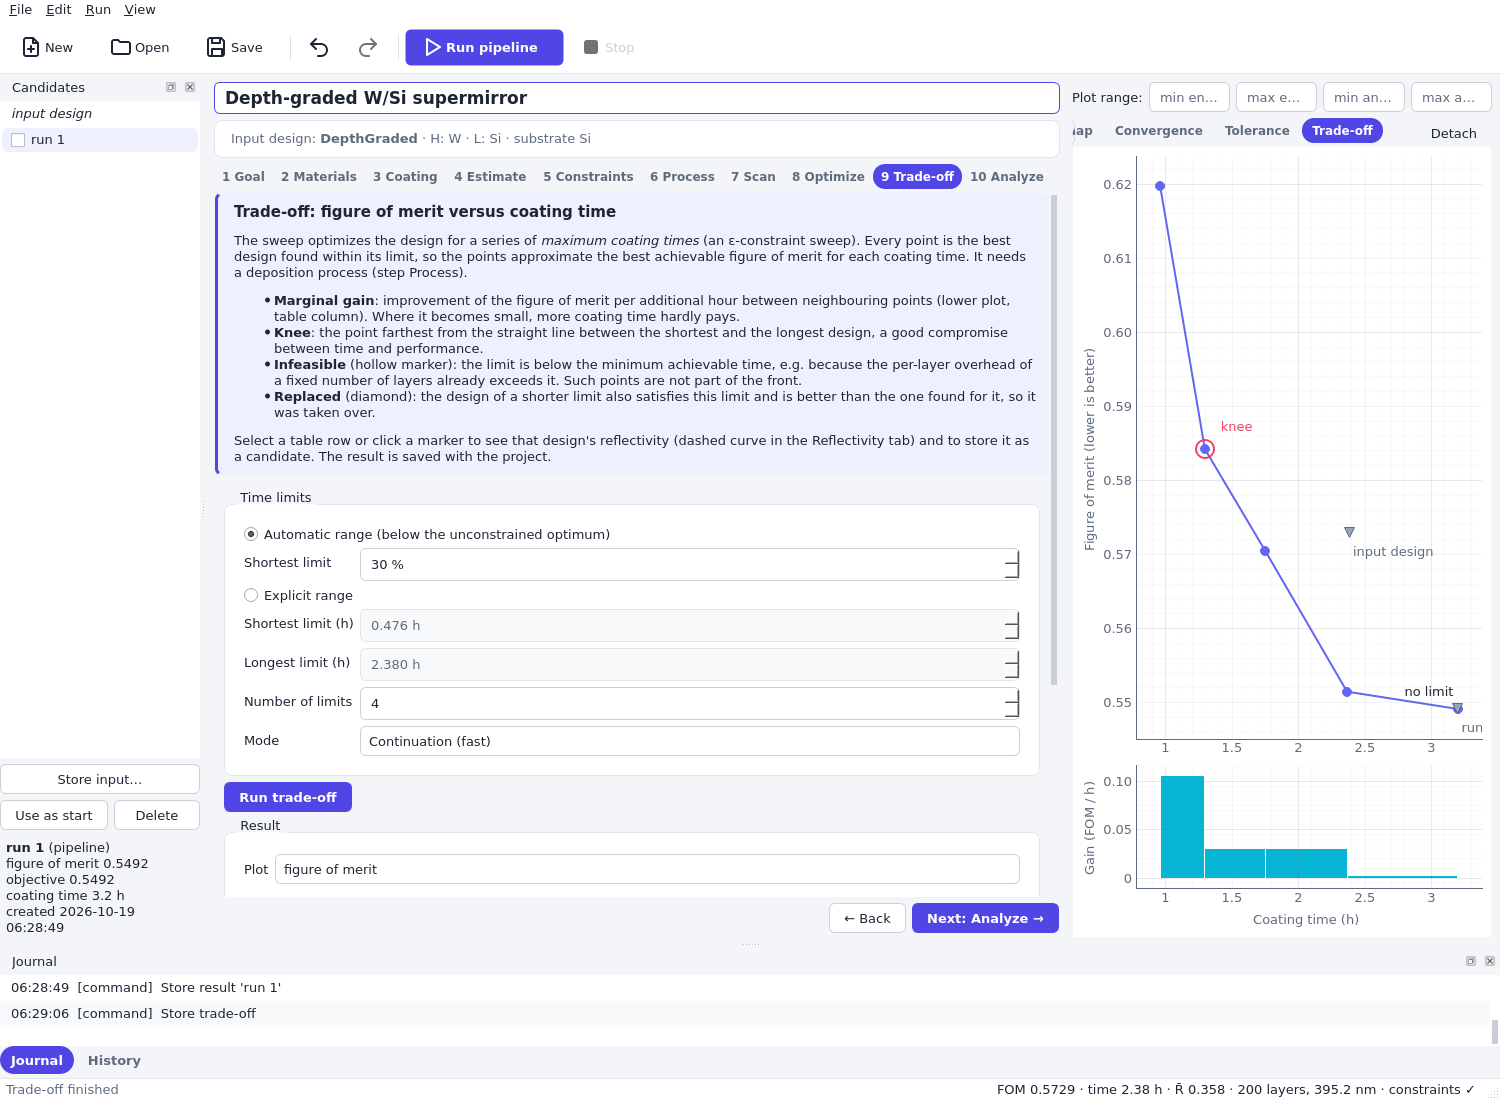
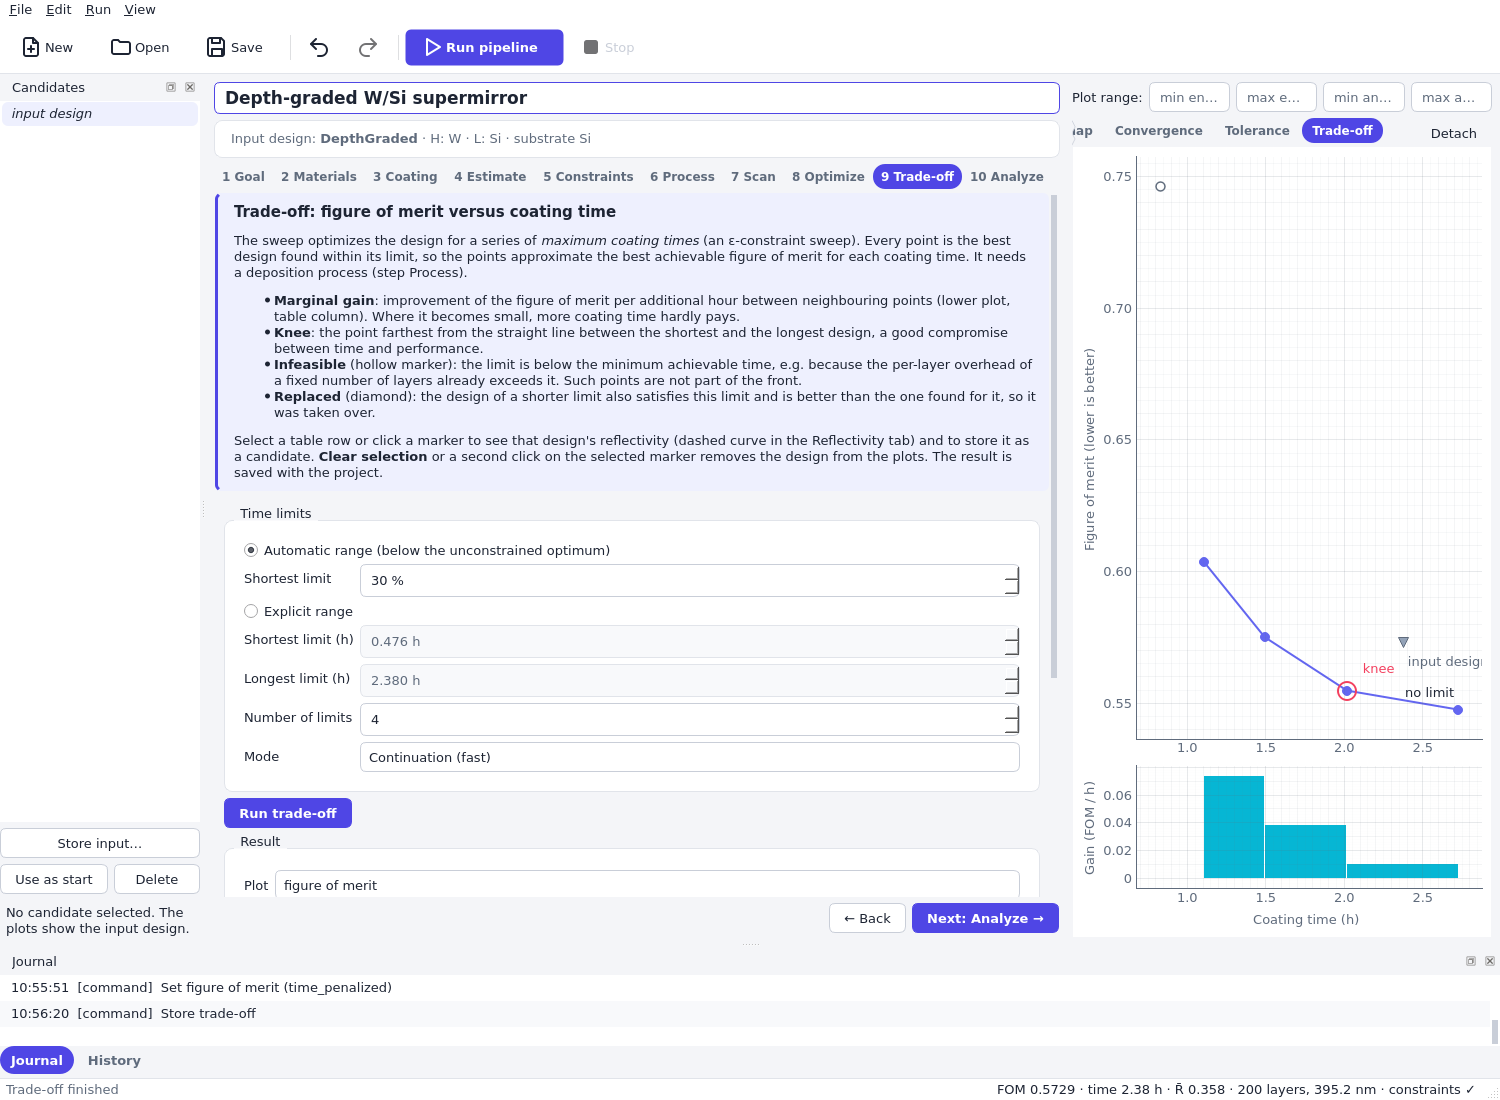
Make every trade-off point selectable and the selection clearable (#46)
The knee ring, the selection mark and the reference markers were scatter
items drawn over the points; they accepted the clicks, so the points
below could not be selected. They now ignore clicks. A click where a
replaced point lies on its original selects the point of the shorter
limit. A second click on the selected marker or the new Clear selection
button removes the design from the plots.

diff --git a/tests/gui/design/test_tradeoff_page.py b/tests/gui/design/test_tradeoff_page.py
@@ -1,15 +1,17 @@
 """Tests of the Trade-off workflow page, its plot and the integration in the main window."""
 
 import math
+from dataclasses import replace
 
 import pytest
+from PySide6.QtCore import QPointF, Qt
 from pytestqt.qtbot import QtBot
 
 from tests.gui.design.test_optimization_gui import small_state, wait_job
 from xstack.core.parameters import Parameter, ParameterSet
 from xstack.design.manufacturing.process import DepositionProcess
 from xstack.design.optim.tradeoff import TradeoffPoint, TradeoffResult
-from xstack.design.project.commands import set_mirror, set_process
+from xstack.design.project.commands import set_mirror, set_process, store_tradeoff
 from xstack.design.project.templates import new_state
 from xstack.gui.design.main_window import MainWindow
 from xstack.gui.design.plots import MERIT_QUANTITY, ReferenceDesign, TradeoffPlot
@@ -250,4 +252,115 @@ def test_automatic_range_includes_unconstrained_design(qtbot: QtBot, window: Mai
     assert result is not None
     assert [math.isinf(p.limit) for p in result.points] == [False, True]
     assert page.table.item(1, 0).text() == "no limit"
+    window.controller.undo_stack.setClean()
+
+
+def knee_result() -> TradeoffResult:
+    """A trade-off whose knee is not shared with a replaced point."""
+    return TradeoffResult(
+        (
+            point(1 * HOUR, 1.0, 0.6),
+            point(2 * HOUR, 2.0, 0.3),
+            point(4 * HOUR, 4.0, 0.25),
+            point(8 * HOUR, 8.0, 0.24),
+        )
+    )
+
+
+@pytest.fixture
+def shown_plot(qtbot: QtBot) -> TradeoffPlot:
+    plot = TradeoffPlot()
+    qtbot.addWidget(plot)
+    plot.resize(800, 600)
+    plot.show()
+    qtbot.waitExposed(plot)
+    return plot
+
+
+def click_at(qtbot: QtBot, plot: TradeoffPlot, x: float, y: float) -> list[object]:
+    """Click the plot at data coordinates; return the emitted `pointSelected` values."""
+    qtbot.wait(20)
+    scene_pos = plot.main_plot.vb.mapViewToScene(QPointF(x, y))
+    emitted: list[object] = []
+    plot.pointSelected.connect(emitted.append)
+    qtbot.mouseClick(  # type: ignore[no-untyped-call]
+        plot.graphics.viewport(),
+        Qt.MouseButton.LeftButton,
+        pos=plot.graphics.mapFromScene(scene_pos),
+    )
+    plot.pointSelected.disconnect(emitted.append)
+    return emitted
+
+
+def test_click_on_knee_selects_it(qtbot: QtBot, shown_plot: TradeoffPlot) -> None:
+    shown_plot.set_result(knee_result())
+    assert shown_plot.knee_xy == (2.0, 0.3)
+    assert click_at(qtbot, shown_plot, 2.0, 0.3) == [1]
+    assert shown_plot.selected == 1
+
+
+def test_click_on_point_shared_with_replaced_selects_shortest_limit(
+    qtbot: QtBot, shown_plot: TradeoffPlot
+) -> None:
+    """The knee of `sample_result` lies under the diamond of the point taken over from it."""
+    shown_plot.set_result(sample_result())
+    assert shown_plot.knee_xy == (2.0, 0.3)
+    assert click_at(qtbot, shown_plot, 2.0, 0.3) == [2]
+
+
+def test_click_passes_selection_mark_and_references(qtbot: QtBot, shown_plot: TradeoffPlot) -> None:
+    shown_plot.set_result(
+        knee_result(), MERIT_QUANTITY, [ReferenceDesign("input design", 4 * HOUR, 0.25)]
+    )
+    assert click_at(qtbot, shown_plot, 1.0, 0.6) == [0]
+    assert click_at(qtbot, shown_plot, 4.0, 0.25) == [2]
+    assert click_at(qtbot, shown_plot, 8.0, 0.24) == [3]
+
+
+def test_second_click_clears_selection(qtbot: QtBot, shown_plot: TradeoffPlot) -> None:
+    shown_plot.set_result(knee_result())
+    assert click_at(qtbot, shown_plot, 4.0, 0.25) == [2]
+    assert click_at(qtbot, shown_plot, 4.0, 0.25) == [None]
+    assert shown_plot.selected is None
+    assert click_at(qtbot, shown_plot, 4.0, 0.25) == [2]
+
+
+def test_page_clear_button(qtbot: QtBot) -> None:
+    page = TradeoffPage()
+    qtbot.addWidget(page)
+    page.set_state(new_state("periodic").evolve(process=PROCESS, tradeoff=sample_result()))
+    assert not page.clear_button.isEnabled()
+    emitted: list[object] = []
+    page.pointSelected.connect(emitted.append)
+    page.select_point(2)
+    assert page.clear_button.isEnabled()
+    page.clear_button.click()
+    assert emitted == [2, None]
+    assert page.selected_index() is None
+    assert not page.clear_button.isEnabled()
+    assert not page.store_button.isEnabled()
+
+
+def test_window_removes_overlay_when_selection_cleared(qtbot: QtBot, window: MainWindow) -> None:
+    make_window(window)
+    window.controller.execute(set_process(PROCESS))
+    mirror = window.controller.state.mirror
+    assert mirror is not None
+    result = TradeoffResult(
+        tuple(replace(p, parameters=mirror.parameters) for p in knee_result().points)
+    )
+    window.controller.execute(store_tradeoff(result))
+    page, plot = window.tradeoff_page, window.tradeoff_plot
+    page.select_point(1)
+    qtbot.waitUntil(lambda: bool(window.tradeoff_curves), timeout=10000)
+    page.clear_button.click()
+    assert window.tradeoff_point is None
+    assert window.tradeoff_curves == ()
+    assert plot.selected is None
+    page.select_point(2)
+    qtbot.waitUntil(lambda: bool(window.tradeoff_curves), timeout=10000)
+    plot._clicked(None, [type("P", (), {"data": lambda self: 2})()])
+    assert page.selected_index() is None
+    assert window.tradeoff_point is None
+    assert window.tradeoff_curves == ()
     window.controller.undo_stack.setClean()

diff --git a/src/xstack/gui/design/plots.py b/src/xstack/gui/design/plots.py
@@ -444,6 +444,14 @@ class ReferenceDesign:
 type _Group = list[tuple[float, float, int]]
 
 
+class _Decoration(pg.ScatterPlotItem):
+    """Markers that only decorate other points; clicks pass through to the points below."""
+
+    def mouseClickEvent(self, ev: Any) -> None:
+        """Ignore the click, so that the scene offers it to the items below."""
+        ev.ignore()
+
+
 class TradeoffPlot(QWidget):
     """Quantity versus coating time of a trade-off, with the marginal gain below.
 
@@ -453,9 +461,14 @@ class TradeoffPlot(QWidget):
     as separate labelled markers. The lower panel shows the improvement of the figure of merit
     per additional hour between neighbouring feasible designs.
 
+    Clicking a marker selects its point; clicking the selected point again clears the selection.
+    The knee ring, the selection mark and the reference designs don't take clicks. A point taken
+    over from a shorter limit lies on the point it was taken from; a click there selects the
+    point of the shortest limit.
+
     Signals:
-        pointSelected(int): A marker was clicked; the index of the point in
-            `TradeoffResult.points`.
+        pointSelected(object): A marker was clicked; the index of the point in
+            `TradeoffResult.points`, or ``None`` if the click cleared the selection.
 
     Attributes:
         feasible_xy: Coating times in h and plotted values of the feasible points.
@@ -471,7 +484,7 @@ class TradeoffPlot(QWidget):
         parent: Parent widget.
     """
 
-    pointSelected = Signal(int)
+    pointSelected = Signal(object)
 
     def __init__(self, parent: QWidget | None = None) -> None:
         super().__init__(parent)
@@ -494,6 +507,7 @@ class TradeoffPlot(QWidget):
         self._quantity = MERIT_QUANTITY
         self._items: list[tuple[pg.PlotItem, Any]] = []
         self._marker: tuple[pg.PlotItem, Any] | None = None
+        self._positions: dict[int, tuple[float, float]] = {}
         self.feasible_xy: tuple[list[float], list[float]] = ([], [])
         self.infeasible_xy: tuple[list[float], list[float]] = ([], [])
         self.replaced_xy: tuple[list[float], list[float]] = ([], [])
@@ -509,6 +523,7 @@ class TradeoffPlot(QWidget):
             plot.removeItem(item)
         self._items.clear()
         self._remove_marker()
+        self._positions = {}
         self.feasible_xy = ([], [])
         self.infeasible_xy = ([], [])
         self.replaced_xy = ([], [])
@@ -569,6 +584,7 @@ class TradeoffPlot(QWidget):
                 continue
             group = infeasible if not point.feasible else replaced if point.replaced else feasible
             group.append((x, y, index))
+            self._positions[index] = (x, y)
             if np.isinf(point.limit):
                 self._annotate("no limit", x, y, text, (1.0, 1.2))
         front = sorted([*feasible, *replaced])
@@ -598,7 +614,7 @@ class TradeoffPlot(QWidget):
             return
         x, y = knee.coating_time / 3600.0, quantity_value(knee, quantity)
         self.knee_xy = (x, y)
-        ring = pg.ScatterPlotItem(
+        ring = _Decoration(
             x=[x], y=[y], symbol="o", size=18, brush=None, pen=pg.mkPen(PALETTE[1], width=2)
         )
         self._add(self.main_plot, ring)
@@ -611,9 +627,7 @@ class TradeoffPlot(QWidget):
         if not shown:
             return
         muted = COLORS["text_muted"]
-        marker = pg.ScatterPlotItem(
-            x=xs, y=ys, symbol="t", size=10, pen=pg.mkPen(muted), brush=PALETTE[6]
-        )
+        marker = _Decoration(x=xs, y=ys, symbol="t", size=10, pen=pg.mkPen(muted), brush=PALETTE[6])
         self._add(self.main_plot, marker)
         for design, x, y in zip(shown, xs, ys, strict=True):
             self._annotate(design.label, x, y, muted, (0.0, -0.3))
@@ -653,14 +667,18 @@ class TradeoffPlot(QWidget):
         point = result.points[index]
         x, y = point.coating_time / 3600.0, quantity_value(point, self._quantity)
         if np.isfinite(x) and np.isfinite(y):
-            marker = pg.ScatterPlotItem(
+            marker = _Decoration(
                 x=[x], y=[y], symbol="s", size=17, brush=None, pen=pg.mkPen(COLORS["text"], width=2)
             )
             self.main_plot.addItem(marker)
             self._marker = (self.main_plot, marker)
 
     def _clicked(self, _item: Any, points: Sequence[Any]) -> None:
-        if points:
-            index = int(points[0].data())
-            self.select(index)
-            self.pointSelected.emit(index)
+        if not points:
+            return
+        clicked = int(points[0].data())
+        position = self._positions.get(clicked)
+        clicked = min(i for i, xy in self._positions.items() if xy == position)
+        index = None if clicked == self.selected else clicked
+        self.select(index)
+        self.pointSelected.emit(index)

diff --git a/src/xstack/gui/design/steps/tradeoff.py b/src/xstack/gui/design/steps/tradeoff.py
@@ -122,8 +122,9 @@ class TradeoffPage(StepPage):
         "<li><b>Replaced</b> (diamond): the design of a shorter limit also satisfies this "
         "limit and is better than the one found for it, so it was taken over.</li></ul>"
         "<p>Select a table row or click a marker to see that design's reflectivity (dashed "
-        "curve in the Reflectivity tab) and to store it as a candidate. The result is saved "
-        "with the project.</p>"
+        "curve in the Reflectivity tab) and to store it as a candidate. <b>Clear selection</b> "
+        "or a second click on the selected marker removes the design from the plots. The "
+        "result is saved with the project.</p>"
     )
     quantityChanged = Signal()
     pointSelected = Signal(object)
@@ -256,7 +257,16 @@ class TradeoffPage(StepPage):
         )
         self.store_button.clicked.connect(lambda: self.store_selected())
         self.store_button.setEnabled(False)
-        layout.addWidget(self.store_button)
+        self.clear_button = QPushButton("Clear selection")
+        self.clear_button.setToolTip(
+            "Clear the selected row; its design is no longer shown in the plots."
+        )
+        self.clear_button.clicked.connect(lambda: self.select_point(None))
+        self.clear_button.setEnabled(False)
+        buttons = QHBoxLayout()
+        buttons.addWidget(self.store_button)
+        buttons.addWidget(self.clear_button)
+        layout.addLayout(buttons)
         return box
 
     def _update_mode_widgets(self) -> None:
@@ -375,6 +385,7 @@ class TradeoffPage(StepPage):
             table.blockSignals(False)
             self.summary.setText("No trade-off yet.")
             self.store_button.setEnabled(False)
+            self.clear_button.setEnabled(False)
             return
         points = result.points
         feasible = result.feasible_points()
@@ -410,7 +421,9 @@ class TradeoffPage(StepPage):
         self.summary.setText(text)
         if selected is not None and selected < len(points):
             table.selectRow(selected)
-        self.store_button.setEnabled(self.selected_index() is not None)
+        has_selection = self.selected_index() is not None
+        self.store_button.setEnabled(has_selection)
+        self.clear_button.setEnabled(has_selection)
 
     @staticmethod
     def _parameter_text(point: TradeoffPoint) -> str:
@@ -440,6 +453,7 @@ class TradeoffPage(StepPage):
     def _selection_changed(self) -> None:
         index = self.selected_index()
         self.store_button.setEnabled(index is not None)
+        self.clear_button.setEnabled(index is not None)
         self.pointSelected.emit(index)
 
     def store_selected(self) -> bool:

diff --git a/docs/gui_design.md b/docs/gui_design.md
@@ -186,9 +186,11 @@ primary button variant.
   - The table has one row per point: limit (h, “no limit”), coating time (h), figure of merit, the plotted
     quantity (if not the figure of merit), gain per h compared with the previous feasible point, notes
     (*infeasible*, *replaced by shorter-limit design*, *knee*) and the values of the free parameters.
-  - Selecting a row (or clicking a marker in the plot) marks the point in the plot and draws the design's
-    reflectivity dashed in the Reflectivity tab. *Store as candidate* stores it as “trade-off <limit> h”
-    with source `tradeoff` and selects it.
+  - Selecting a row (or clicking a marker in the plot, including the knee) marks the point in the plot
+    and draws the design's reflectivity dashed in the Reflectivity tab. A click on a point taken over
+    from a shorter limit selects the point of that limit, since both are the same design. *Clear
+    selection*, or a second click on the selected marker, removes the design from the plots. *Store as
+    candidate* stores it as “trade-off <limit> h” with source `tradeoff` and selects it.
 - **Analyze**: Monte Carlo tolerance analysis and recipe export.
   - *Design to analyze*: input design or selected candidate.
   - *Error model* with presets (Thickness errors only, Roughness only, Interlayer mixing only, All

diff --git a/docs/guide/topics/design_depth_graded.md b/docs/guide/topics/design_depth_graded.md
@@ -261,7 +261,8 @@ uses the pipeline of the Optimize step.
   neighbouring points.
 - Click a row of the table or a marker to draw that design's reflectivity (dashed) in the Reflectivity
   tab, and **Store as candidate** to keep it (named “trade-off <limit> h”) for the further analysis
-  and the recipe export.
+  and the recipe export. **Clear selection**, or a second click on the selected marker, removes the
+  design from the plots again.
 
 The result is saved with the project. The figure above used the weight of 0.2, so the figure of merit
 of the plot includes the time term; set the weight to zero for a pure reflectivity front.
